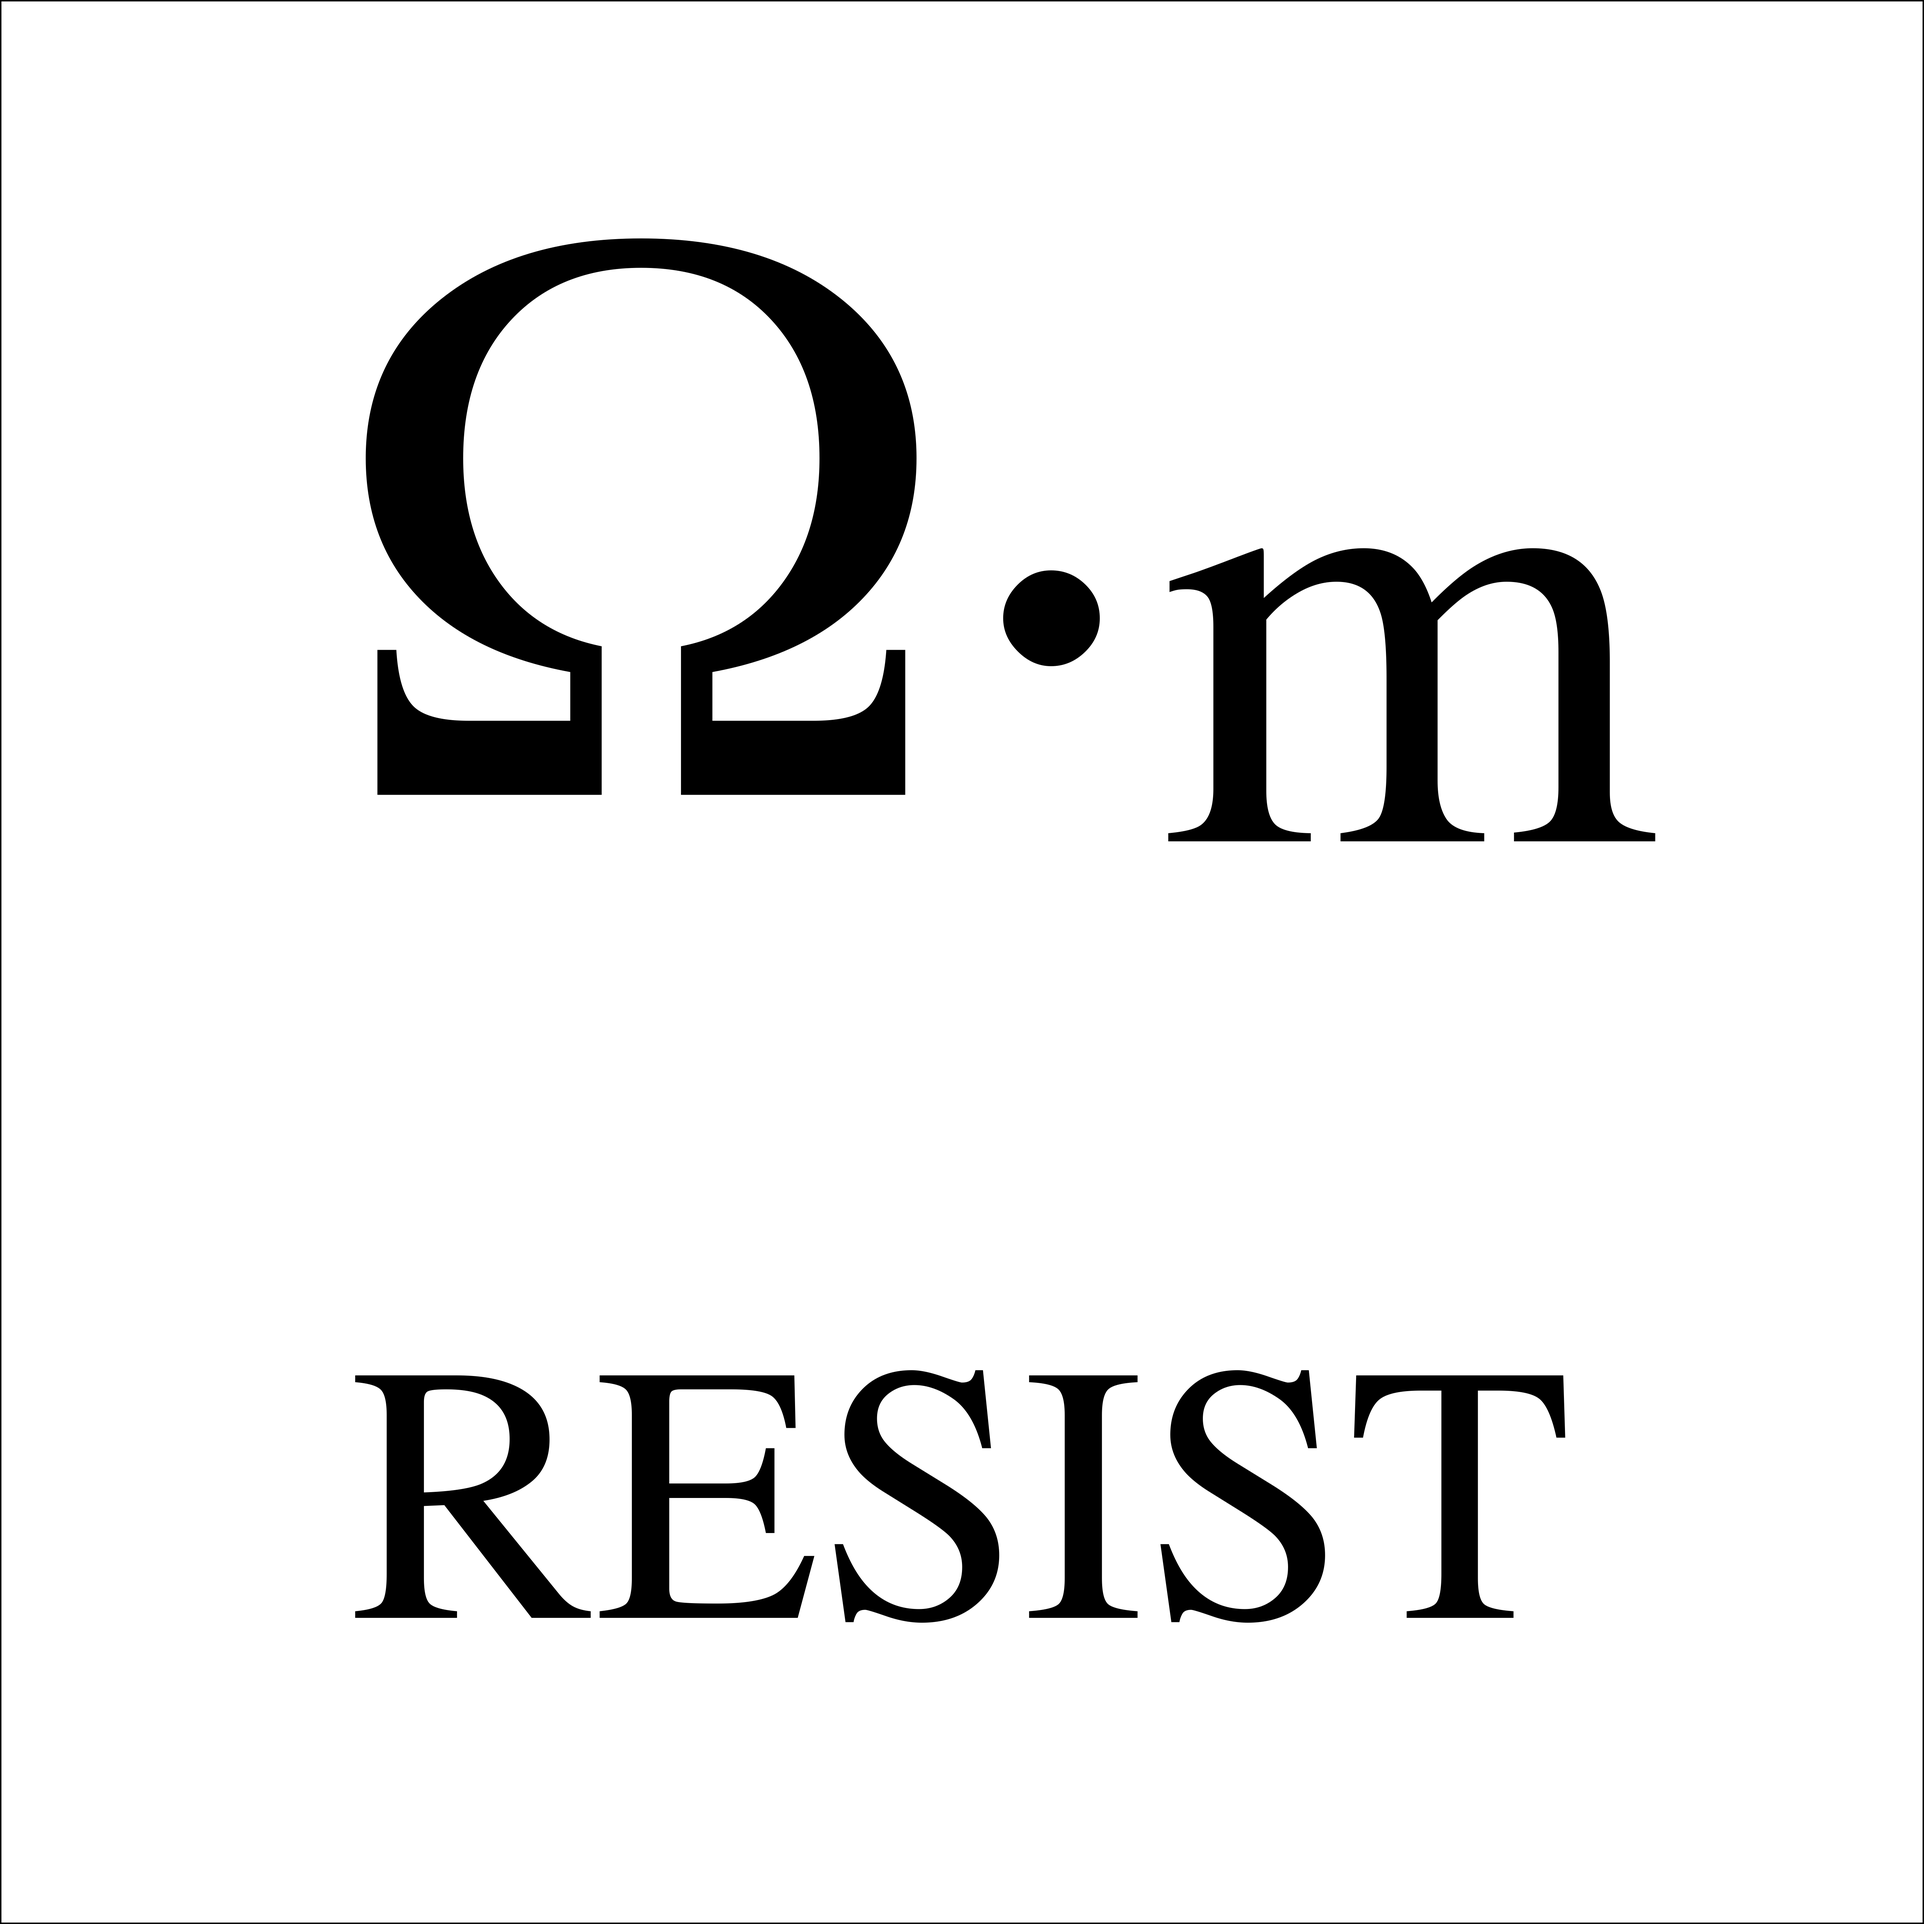
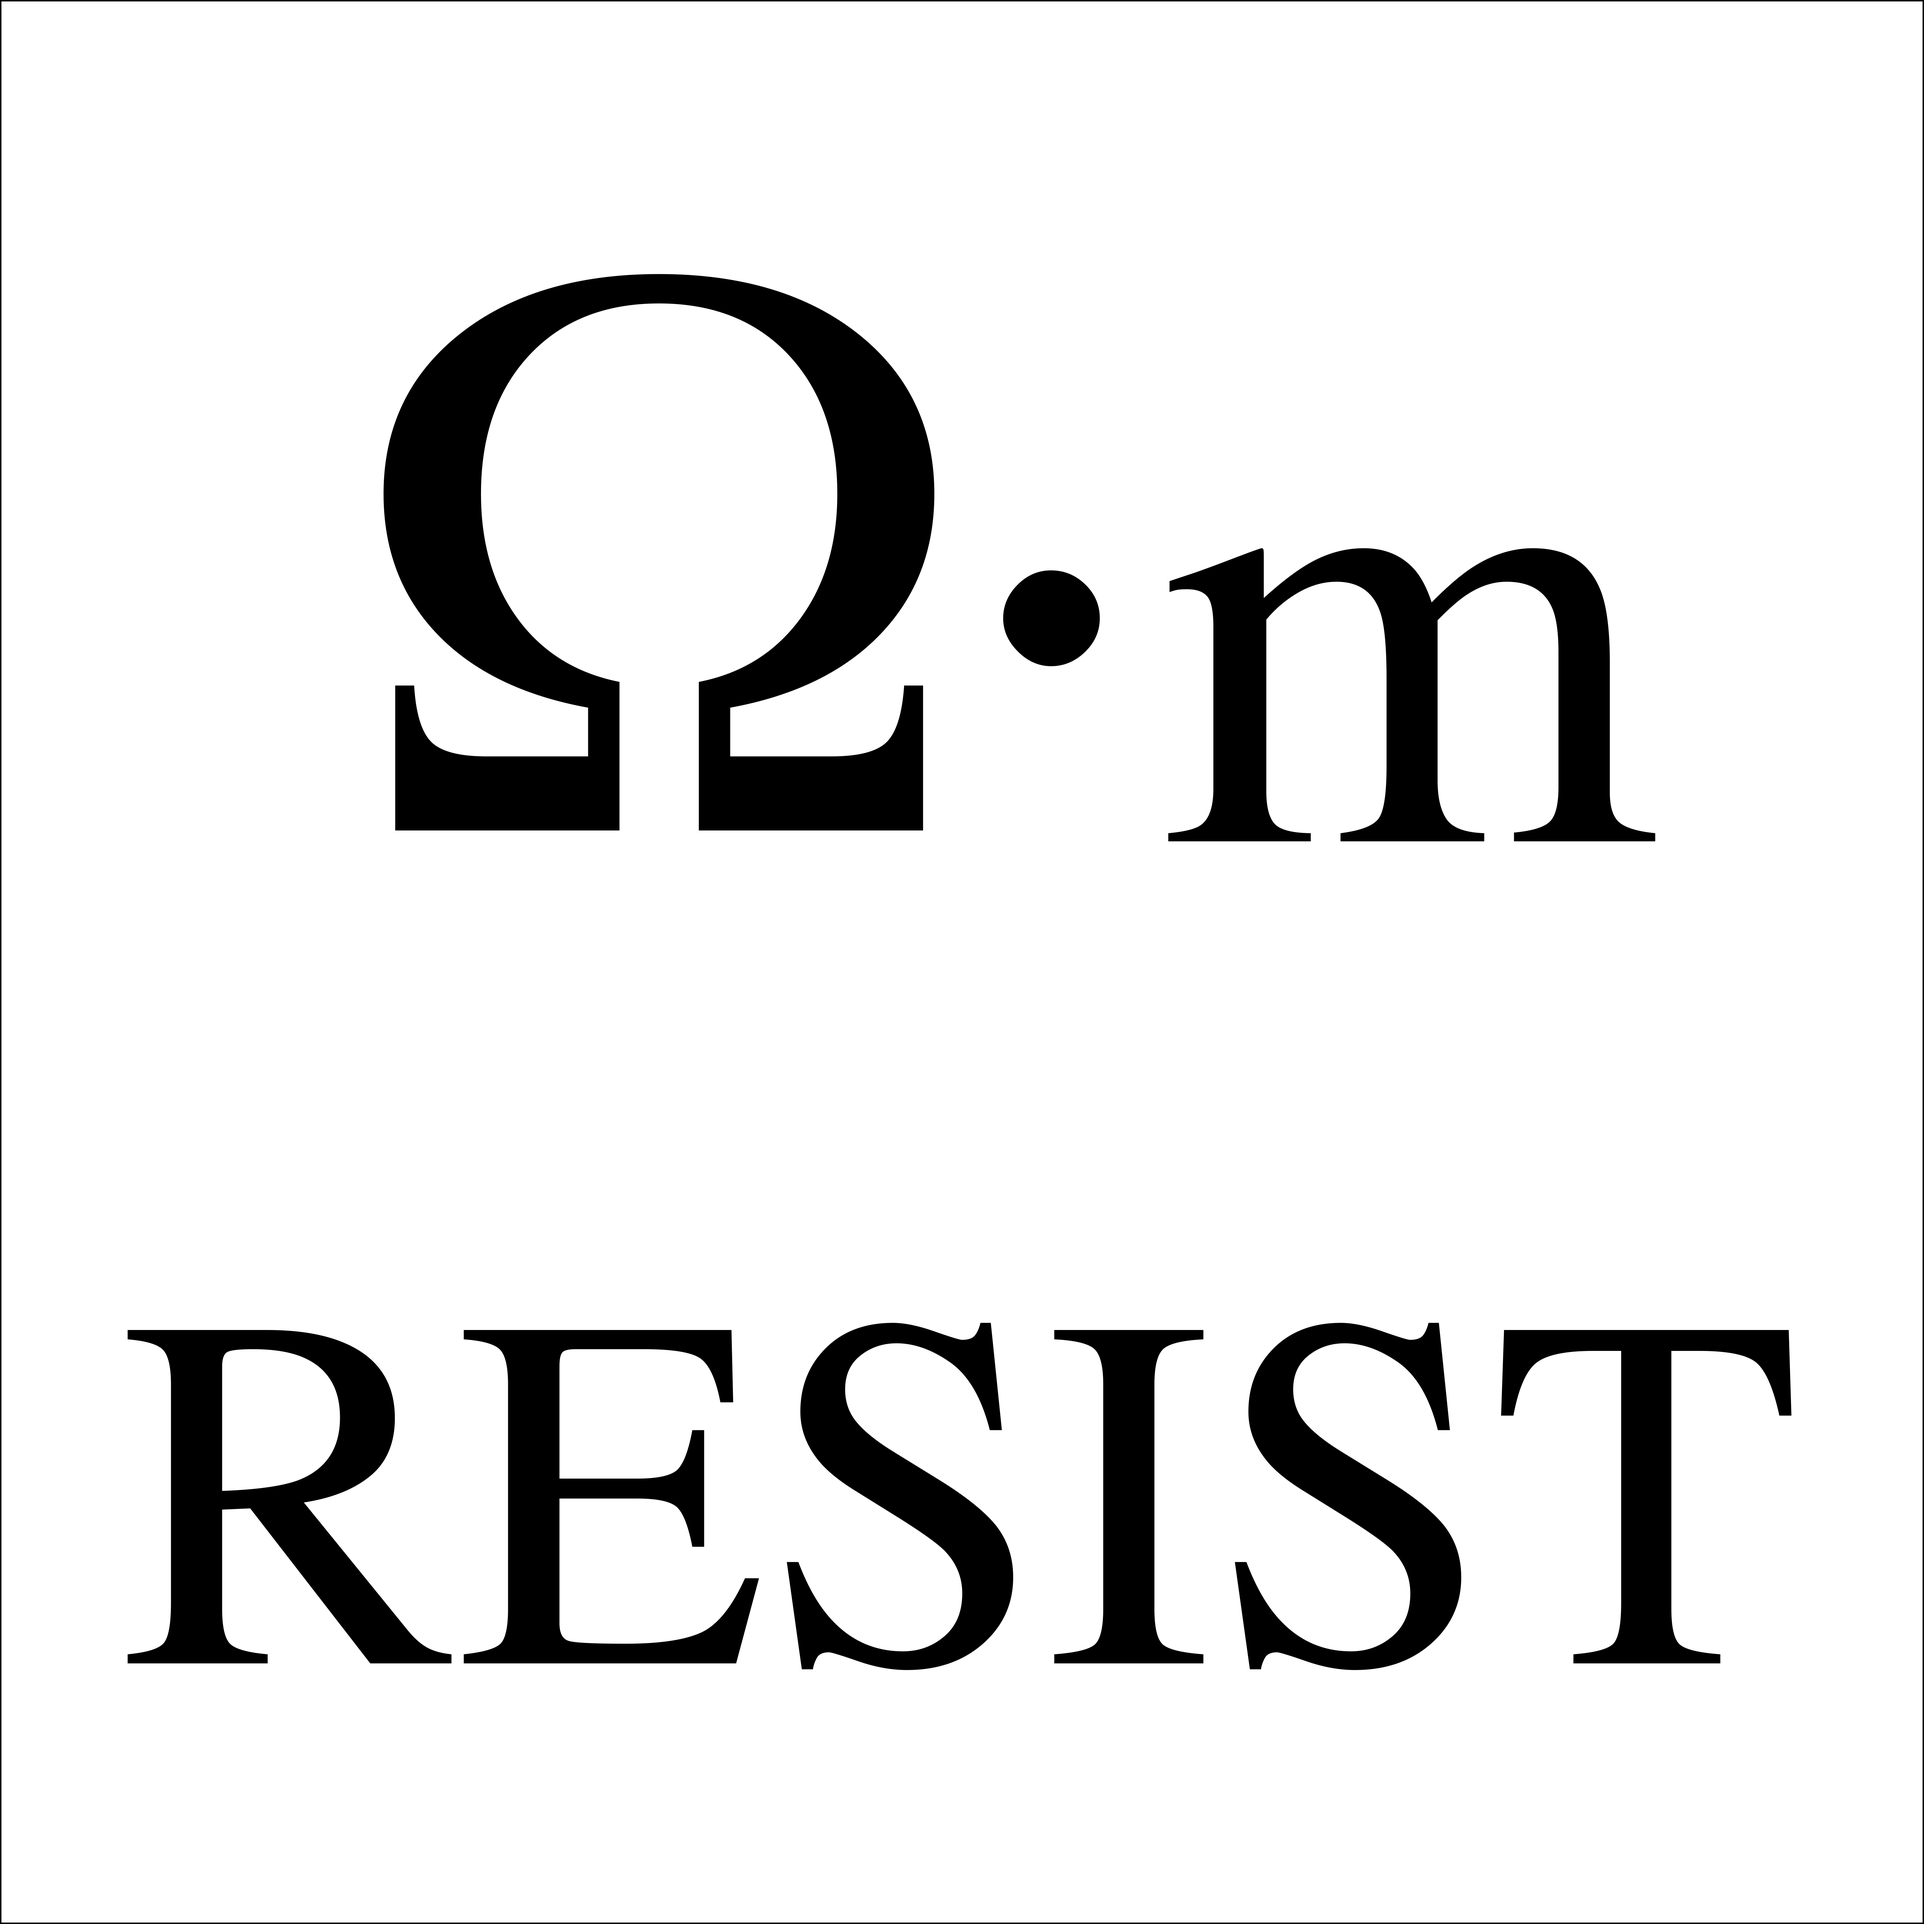
Still trying to get this omega right

Changed region(s): [[0.0625, 0.6875, 0.9375, 0.875], [0.1875, 0.2188, 0.5, 0.4375], [0.1875, 0.125, 0.4688, 0.2812]]

diff --git a/_posts/2017-01-30-ScienceMarch.md b/_posts/2017-01-30-ScienceMarch.md
@@ -65,10 +65,10 @@ After I made this I found out that not only is this the symbol for the [well-kno
 # RESIST sign (with ohm meter symbol)
 par(mar = c(0,0,0,0), family="serif", bg="white")
 plot(c(0, 1), c(0, 1), ann = F, bty = 'o', type = 'n', xaxt = 'n', yaxt = 'n')
-text(.32,.75, expression(Omega), cex=18)
+text(.33,.73, expression(Omega), cex=18)
 text(.55,.63, expression(paste(""%.%"")), cex=18)
 text(.75,.65, "m", cex=14)
-text(.5,.2, "RESIST", cex=8)
+text(.5,.2, "RESIST", cex=11)
 {% endhighlight %}
 
 <img src="/figures/unnamed-chunk-3-1.png" title="plot of chunk unnamed-chunk-3" alt="plot of chunk unnamed-chunk-3" width="600px" style="display: block; margin: auto;" />
